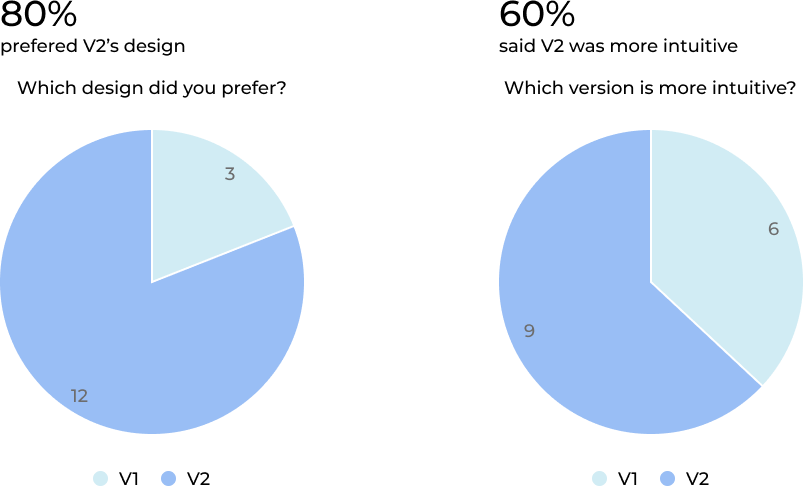
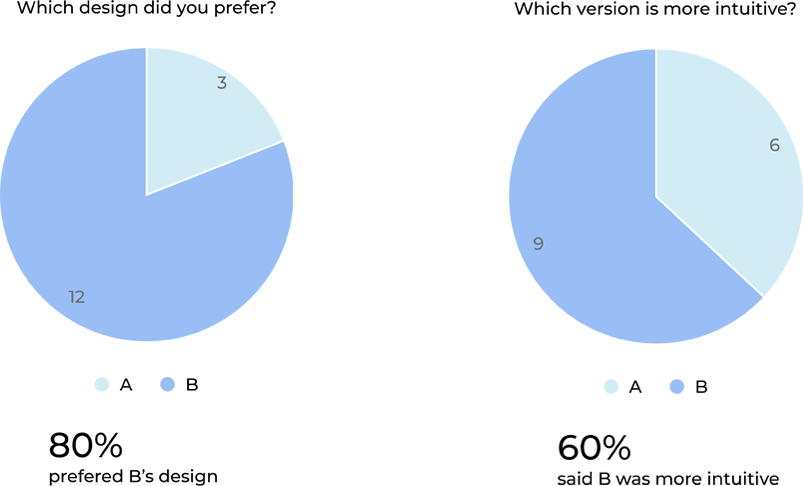
updated tastebuds

diff --git a/Tastebuds.html b/Tastebuds.html
@@ -18,9 +18,9 @@
   </div>
 
 <div class="box">
-  <div class="top">
+  <div class="container">
     <div class="column">
-      <img src="./logo.png" alt="logo" class="main_page" style="width:80%">
+      <img src="./logo.png" alt="logo" class="main_page" style="width:60%">
       <hr>
       <table>
         <tr>
@@ -30,7 +30,6 @@
               <p>
                 UX Designer
               </p>
-            </div>
           </td>
           <td>
             <p>
@@ -57,8 +56,8 @@
         </tr>
       </table>
     </div>
-    <div class="mockup">
-      <img src="./top.png" alt="mockup" class="main_page" style="width:80%">
+    <div class="column_main">
+      <img src="./top.png" alt="mockup" class="main_page">
     </div>
   </div>
 </div>
@@ -74,25 +73,30 @@
         make their restaurant profiles yet</span>
       </p>
       <p>
-        The current app is for users who are exploring restaurants. However, there isn’t a system where the
-        restaurant owners can upload their menu and edit their restaurant profile. This is crucial for the app
+        The current app is for users who are exploring restaurants. However, <b>there isn’t a system where the
+        restaurant owners can upload their menu and edit their restaurant profile.</b> This is crucial for the app
         because without this function, the app in unusable. With most of the owners not being too familiar with
         technology, there had a be an interface that is very easy to understand.
       </p>
     </div>
 
-    <div class="Solution">
-      <h2>Solution</h2>
-      <p>
-        <span style="color: #000000;font-size: 25px;font-weight: 100;">Create a separate app focused for the owners</span>
-      </p>
-      <p>
-        A separate app had to be made for owners to manage their restaurant profiles. With the target group not
-        being tech savvy,  I was in charge of designing a user friendly interface for the app and keep it as simple and
-        straight forward as possible.
-      </p>
+</div>
+
+    <div class="block">
+      <div class="container">
+        <h2>Solution</h2>
+        <p>
+        <span style="color: #444444;font-size: 25px;font-weight: 100;font-family: 'Lato', sans-serif;">Create a separate app focused for the owners</span>
+        </p>
+        <p>
+          A <b>separate app had to be made</b> for owners to manage their restaurant profiles. With the target group not
+          being tech savvy,  I was in charge of designing a user friendly interface for the app and keep it as <b>simple and
+          straight forward</b> as possible.
+        </p>
+      </div>
     </div>
 
+  <div class="container">
     <div class="Planning">
       <h2>Planning</h2>
       <p>
@@ -100,11 +104,11 @@
       </p>
       <p>
         With no current app, I had to design from scratch. After gathering all the neccesary information needed, the
-        first step I took was planning.
+        first step I took was <b>planning.</b>
       </p>
       <img src="planning.png" alt="planning" class="tastebuds_page" style="width:100%">
       <p>
-        Through planning, I was able to determine how I wanted the app to be layed out. It allowed a smooth
+        Through planning, I was <b>able to determine the layout of the app.</b> This allowed a smooth
         transition towards wireframing and low-fidelity prototyping.
       </p>
     </div>
@@ -116,7 +120,7 @@
       </p>
       <img src="wireframe.png" alt="wireframe" class="tastebuds_page" style="width:100%">
       <p>
-        The main purpose of this app was to allow the owners to create and edit their menus. With this in mind,
+        The main purpose of this app was to allow the owners to <b>create and edit their menus.</b> With this in mind,
         the edit menu screen had to have all the necessary information to allow the owners to create or edit it.
       </p>
     </div>
@@ -130,14 +134,10 @@
       <div class="container">
         <img src="edit_dish_1.png" alt="mockup" class="testing" style="width:40%">
         <div class="info">
-          <h2>Version 1:</h2>
+          <h2>Version A:</h2>
           <p>
-            Version 1 was designed such that the editable function for the chosen dish would expand and
+            Version A was designed such that the <b>editable function for the chosen dish would expand</b> and
             the user would be able to quickly edit all the information.
-          </p>
-          <p>
-            After some user testing, it was proven that the editable function is difficult to see and use with
-            its compact space.
           </p>
         </div>
       </div>
@@ -145,25 +145,31 @@
       <div class="container">
         <img src="edit_dish_2.png" alt="mockup" class="testing" style="width:40%">
         <div class="info">
-          <h2>Version 2:</h2>
+          <h2>Version B:</h2>
           <p>
-            Instead of expanding the existing page, I wanted version 2 to allow the user more space to edit and
+            Instead of expanding the existing page, I wanted version B to allow the user <b>more space</b> to edit and
             add their dish. This thought resulted in designing a contextual, spacious menu that slides up from the bottom.
           </p>
+        </div>
+      </div>
+    </div>
+  </div>
+
+      <div class="block">
+        <div class="container">
+          <h2>User Testing on Both Versions</h2>
           <p>
-            With improved whitespace, this version gives off a refreshing look.
+          <span style="color: #444444;font-size: 25px;font-weight: 100;font-family: 'Lato', sans-serif;">Determining the results</span>
+          </p>
+          <p>
+            To grasp a deeper understanding of which version users prefered, I conducted a quick <b>user testing survey</b>
+            to get feedback on their opinions of the two.
           </p>
         </div>
       </div>
 
-      <p>
-        <span style="color: #000000;font-size: 25px;font-weight: 100;">User testing on both versions</span>
-      </p>
-      <p>
-        To grasp a deeper understanding of which version users prefered, I conducted a quick user testing survey
-        to get feedback on their opinions of the two.
-      </p>
-
+<div class="container">
+  <div class="table2">
       <div class="chart">
           <img src="chart.png" alt="chart1" class="testing" style="width:65%" class="chart1">
           <p>
@@ -175,8 +181,8 @@
         <span style="color: #000000;font-size: 25px;font-weight: 100;">User feedback:</span>
         <br>
         <img src="./quote_1.png" alt="quote1" class="testing" style="width:70%">
-        <img src="./quote_2.png" alt="quote2" class="testing" style="width:85%" align="right">
-        <img src="./quote_3.png" alt="quote3" class="testing" style="width:55%">
+        <img src="./quote_2.png" alt="quote2" class="testing" style="width:81%" align="right">
+        <img src="./quote_3.png" alt="quote3" class="testing" style="width:59%">
       </div>
   </div>
 
@@ -191,7 +197,7 @@
           <h2>Screen 1</h2>
           <span style="color: #000000;font-size: 40px;font-weight: 200;"><i>#000000</i></span>
           <p>
-            It showed clear distinction between all elements. However, with an inc black colour, it created a drastic
+            It showed <b>clear distinction</b> between all elements. However, with an inc black colour, it created a drastic
             contrast which caused a bit unease on the eyes.
           </p>
           <h2>User Feedback:</h2>
@@ -209,7 +215,7 @@
           <h2>Screen 2</h2>
           <span style="color: #E9F0F7;background-color: #636363;font-size: 40px;font-weight: 200;padding-right: 10px;"><i>#E9F0F7</i></span>
           <p>
-            With a pastel blue colour, it gave this screen a clean and refreshing look. It was easy on the eyes and
+            With a pastel blue colour, it gave this screen a <b>clean and refreshing look</b>. It was easy on the eyes and
             complimented each card well.
           </p>
           <h2>User Feedback:</h2>
@@ -231,7 +237,7 @@
           <br><br>
             <span style="color: #948787;font-size: 40px;font-weight: 200;"><i>#948787</i></span>
             <p>
-              Determined to make it not look like Hinge, I gave a secondary colour of <span style="color: #948787"><i>#948787</i></span> in hopes that it’ll
+              Determined to make it not look like Hinge, I gave a <b>secondary colour</b> of <span style="color: #948787"><i>#948787</i></span> in hopes that it’ll
               give it a completely new look.
             </p>
             <h2>User Feedback:</h2>

diff --git a/tastebuds.css b/tastebuds.css
@@ -46,30 +46,26 @@ table p {
   font-family: 'Lato', sans-serif;
 }
 
-.box .top {
+.box .container {
   display: flex;
   align-items: center;
   margin: auto;
 }
 
-.box .top .mockup {
-  text-align: right;
+.box .container .column_main img {
+  width: 500px;
 }
 
 .container h2 {
   margin-bottom: 15px;
 }
 
-.box .top .mockup {
-  padding: 0px;
-  margin: 0px;
-}
-
 .chart img {
   display: flex;
   margin-left: auto;
   margin-right: auto;
-  margin-bottom: 100px;
+  margin-top: 80px;
+  margin-bottom: 80px;
 }
 
 .quote {

diff --git a/tugolo.css b/tugolo.css
@@ -102,12 +102,6 @@ table p {
   font-weight: 400;
 }
 
-.container img {
-  display: block;
-  margin-left: auto;
-  margin-right: auto;
-}
-
 .container .container img {
   display: block;
   margin-left: auto;
